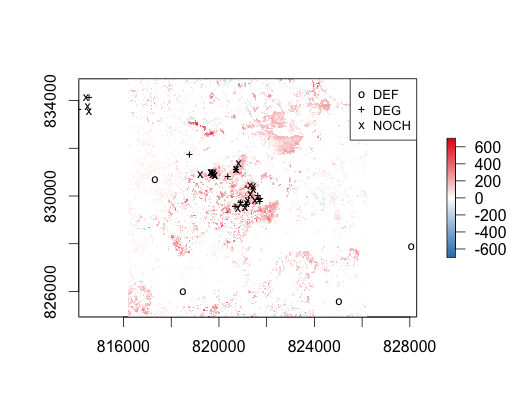
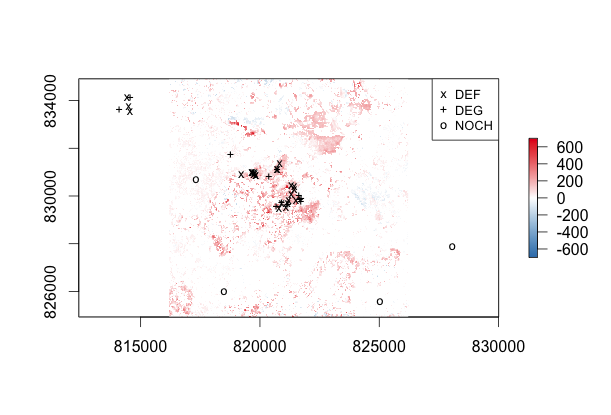
fixed last figure

diff --git a/README.md b/README.md
@@ -1,3 +1,6 @@
+---
+output: word_document
+---
 # Integrated Forest Monitoring using LTS and CBM
 
 Data and R code accompanying the paper:
@@ -249,7 +252,7 @@ plot(delAmp, zlim = c(-700, 700), col = cols)
 plot(subset(obs, label == "NOCH"), pch = 'o', add = TRUE, cex = 0.8)
 plot(subset(obs, label == "DEG"), pch = '+', add = TRUE, cex = 0.8)
 plot(subset(obs, label == "DEF"), pch = 'x', add = TRUE, cex = 0.8)
-legend('topright', legend = c('DEF', 'DEG', 'NOCH'), pch = c('o', '+', 'x'), cex = 0.8)
+legend('topright', legend = c('DEF', 'DEG', 'NOCH'), pch = c('x', '+', 'o'), cex = 0.8)
 ```
 
 <div style="text-align:center">
